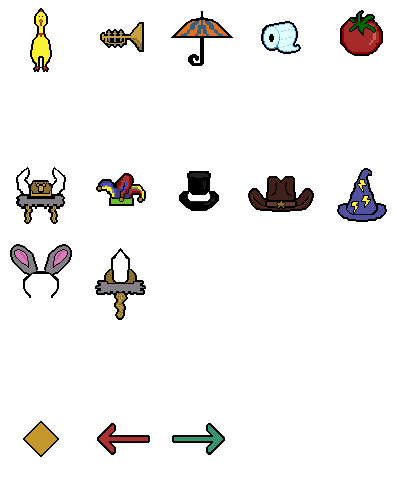
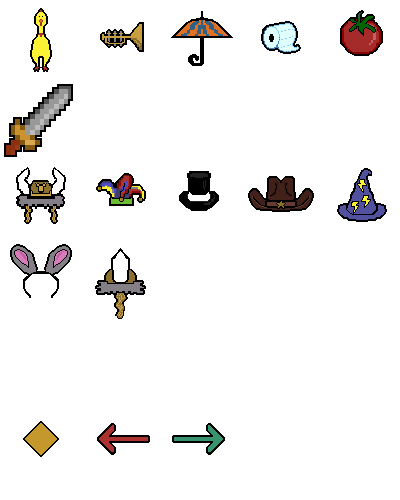
Add excalibur sword

Changed region(s): [[0.0, 0.15, 0.18, 0.33]]

diff --git a/src/constants.ts b/src/constants.ts
@@ -12,6 +12,7 @@ export enum StageProps {
   umbrella = "umbrella",
   toiletPaper = "toiletPaper",
   tomato = "tomato",
+  sword = "sword",
 }
 
 export enum Costumes {
@@ -29,6 +30,7 @@ export const IconPosition: { [key: string]: number } = {
   umbrella: 2,
   toiletPaper: 3,
   tomato: 4,
+  sword: 5,
   vikingHat: 10,
   jesterHat: 11,
   topHat: 12,
